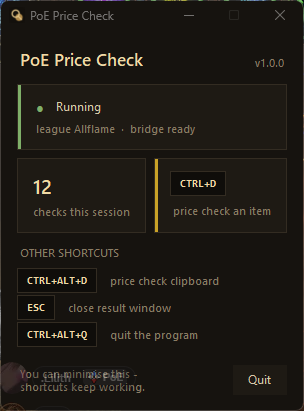
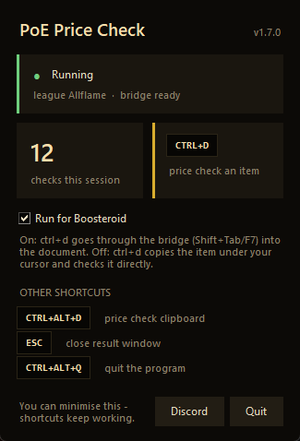
Usun strone /community/ + odswiez zrzuty ekranu na stronie do v1.7.0
1. Cofniecie /community/ (na prosbe - dane maja zostac tajemnica).
   Usuniete: endpoint /api/public-stats, community.js, community_content.py,
   link w stopce, wpis w build(). Juz wdrozone wczesniej bezposrednio -
   ten commit tylko dogania historie gita do tego, co jest na produkcji
   (potwierdzone: oba adresy zwracaja teraz 404).

2. Nowe zrzuty ekranu (app-result.png, app-status.png) - stare byly z
   wersji 1.0.0, sprzed calego refresh'u "obsydian i zloto" i przed
   przelacznikiem Boosteroid. Nowe sa z prawdziwie dzialajacej aplikacji
   1.7.0 (nie mockupy): ResultWindow z realnym zapytaniem do zywego API
   handlu (Agony Band, 294 oferty, prawdziwe konta i ceny), pokazujace
   tez nowy przycisk "Price ceiling for this base"; StatusWindow z
   widocznym checkboxem "Run for Boosteroid".

   Wymiary w build.py zaktualizowane pod nowe pliki (460x645 i 300x441 -
   nowy motyw ma wieksze odstepy, wiec proporcje realnie sie zmienily,
   nie tylko skala).

Zweryfikowane na produkcji: oba pliki 200, poprawne rozmiary, kontrola
141/141 OK.

diff --git a/web/build.py b/web/build.py
@@ -20,7 +20,6 @@ from datetime import date
 
 sys.path.insert(0, str(pathlib.Path(__file__).resolve().parent.parent))
 
-from community_content import COMMUNITY
 from content import C, DEFAULT, LANGS, LOCALES
 from privacy_content import PRIVACY
 # Wersja i sklejanie archiwum siedza w package.py, zeby plik ze strony
@@ -277,7 +276,7 @@ def page(lang: str) -> str:
         </p>
       </div>
       <figure class="shot hero-shot">
-        <img src="{asset('app-result.png')}" width="462" height="679"
+        <img src="{asset('app-result.png')}" width="460" height="645"
              alt="{esc(t['shot_result_alt'])}" fetchpriority="high">
       </figure>
     </div>
@@ -315,7 +314,7 @@ def page(lang: str) -> str:
         <p class="privacy-note">{esc(t['privacy_body'])}</p>
       </div>
       <figure class="shot shot-small">
-        <img src="{asset('app-status.png')}" width="304" height="411"
+        <img src="{asset('app-status.png')}" width="300" height="441"
              alt="{esc(t['shot_status_alt'])}" loading="lazy">
       </figure>
     </div>
@@ -352,8 +351,7 @@ def page(lang: str) -> str:
     <p class="disclaimer">{esc(t['footer_disclaimer'])}</p>
     <p class="disclaimer"><a href="{SOURCE_URL}/blob/main/SIGNING-POLICY.md"
        rel="noopener noreferrer">Code signing policy</a>
-       &middot; <a href="/{lang}/privacy/">{esc(PRIVACY[lang]['title'])}</a>
-       &middot; <a href="/{lang}/community/">{esc(COMMUNITY[lang]['title'])}</a></p>
+       &middot; <a href="/{lang}/privacy/">{esc(PRIVACY[lang]['title'])}</a></p>
   </div>
 </footer>
 </body>
@@ -387,68 +385,6 @@ def privacy_page(lang: str) -> str:
   <h1>{esc(p['title'])}</h1>
   <p class="note">{esc(p['updated'])}</p>
   {sections}
-</main>
-<footer>
-  <div class="wrap">
-    <nav class="langs" aria-label="{esc(t['footer_lang'])}">{lang_switch(lang)}</nav>
-  </div>
-</footer>
-</body>
-</html>
-"""
-
-
-def community_page(lang: str) -> str:
-    """Publiczna, zagregowana statystyka uzycia - dane leca z
-    /api/public-stats (Cloudflare Function czytajaca ta sama tabele pings
-    co panel admina), tutaj tylko szkielet i etykiety. Zero logowania,
-    zero danych, ktorych nie obiecuje juz polityka prywatnosci."""
-    c = COMMUNITY[lang]
-    t = C[lang]
-    tiles = [
-        ("cs-installs", c["tile_installs"]),
-        ("cs-installs-week", c["tile_installs_week"]),
-        ("cs-checks-week", c["tile_checks_week"]),
-        ("cs-session", c["tile_session"]),
-    ]
-    tile_html = "".join(
-        f'<div class="tile"><span class="tile-label">{esc(label)}</span>'
-        f'<b id="{key}">–</b></div>'
-        for key, label in tiles)
-
-    sections = [
-        ("systems", c["section_systems"]),
-        ("leagues", c["section_leagues"]),
-        ("versions", c["section_versions"]),
-        ("languages", c["section_languages"]),
-        ("transports", c["section_transports"]),
-    ]
-    section_html = "".join(
-        f'<section><h2>{esc(label)}</h2>'
-        f'<div data-bars="{key}"></div></section>'
-        for key, label in sections)
-
-    return f"""<!DOCTYPE html>
-<html lang="{lang}" dir="{t['dir']}">
-<head>
-  <meta charset="utf-8">
-  <meta name="viewport" content="width=device-width, initial-scale=1">
-  <title>{esc(c['title'])} - PoE Price Check</title>
-  <meta name="description" content="{esc(c['description'])}">
-  <meta name="robots" content="index, follow">
-  <link rel="canonical" href="{SITE_URL}/{lang}/community/">
-  <link rel="icon" href="{asset('icon.png')}" type="image/png">
-  <link rel="stylesheet" href="{asset('style.css')}">
-  <script src="{asset('community.js')}" defer></script>
-</head>
-<body>
-<main class="wrap narrow legal" id="cs-board">
-  <p><a href="/{lang}/">{esc(c['back'])}</a></p>
-  <h1>{esc(c['heading'])}</h1>
-  <p class="note">{esc(c['intro'])}</p>
-  <div class="tiles">{tile_html}</div>
-  {section_html}
-  <p class="note">{esc(c['updated_prefix'])} <span id="cs-updated">…</span></p>
 </main>
 <footer>
   <div class="wrap">
@@ -939,17 +875,6 @@ def build() -> None:
                 f"Polityka prywatnosci dla {code!r} niezgodna: "
                 f"brakuje {sorted(missing)}, nadmiar {sorted(extra)}")
 
-    community_base = set(COMMUNITY[DEFAULT])
-    for code in LANGS:
-        if code not in COMMUNITY:
-            raise SystemExit(f"Brak strony spolecznosci dla {code!r}")
-        missing = community_base - set(COMMUNITY[code])
-        extra = set(COMMUNITY[code]) - community_base
-        if missing or extra:
-            raise SystemExit(
-                f"Strona spolecznosci dla {code!r} niezgodna: "
-                f"brakuje {sorted(missing)}, nadmiar {sorted(extra)}")
-
     if DIST.exists():
         shutil.rmtree(DIST)
     (DIST / "assets").mkdir(parents=True)
@@ -961,9 +886,6 @@ def build() -> None:
         (target / "privacy").mkdir()
         (target / "privacy" / "index.html").write_text(
             privacy_page(code), encoding="utf-8")
-        (target / "community").mkdir()
-        (target / "community" / "index.html").write_text(
-            community_page(code), encoding="utf-8")
 
     (DIST / "index.html").write_text(root_redirect(), encoding="utf-8")
     (DIST / "admin").mkdir()
